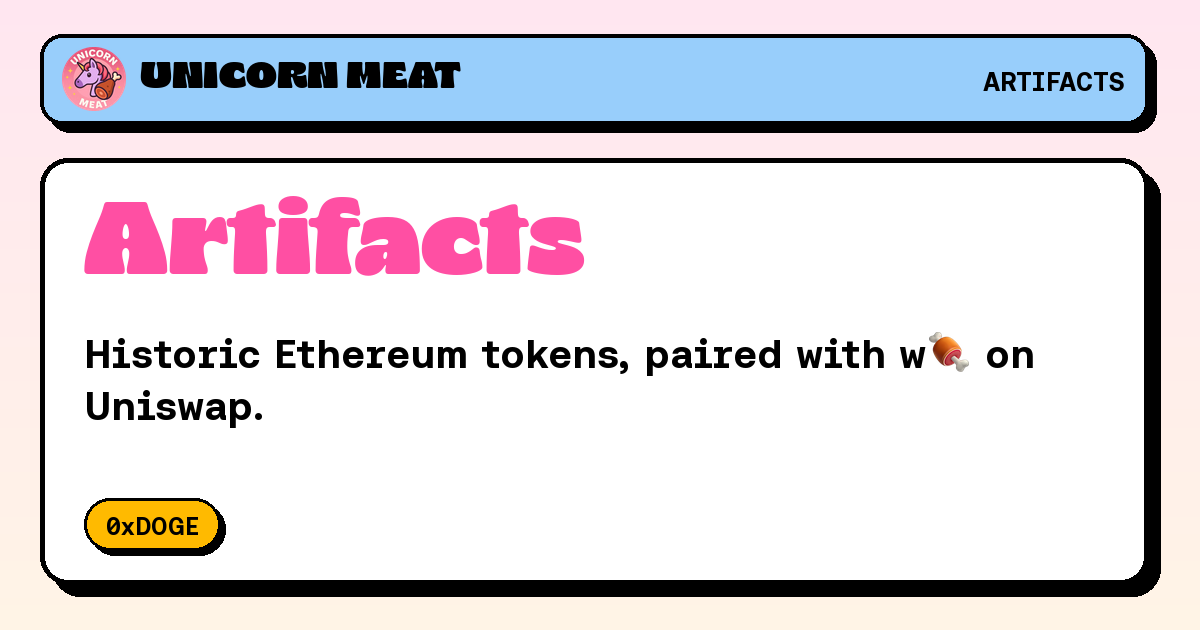
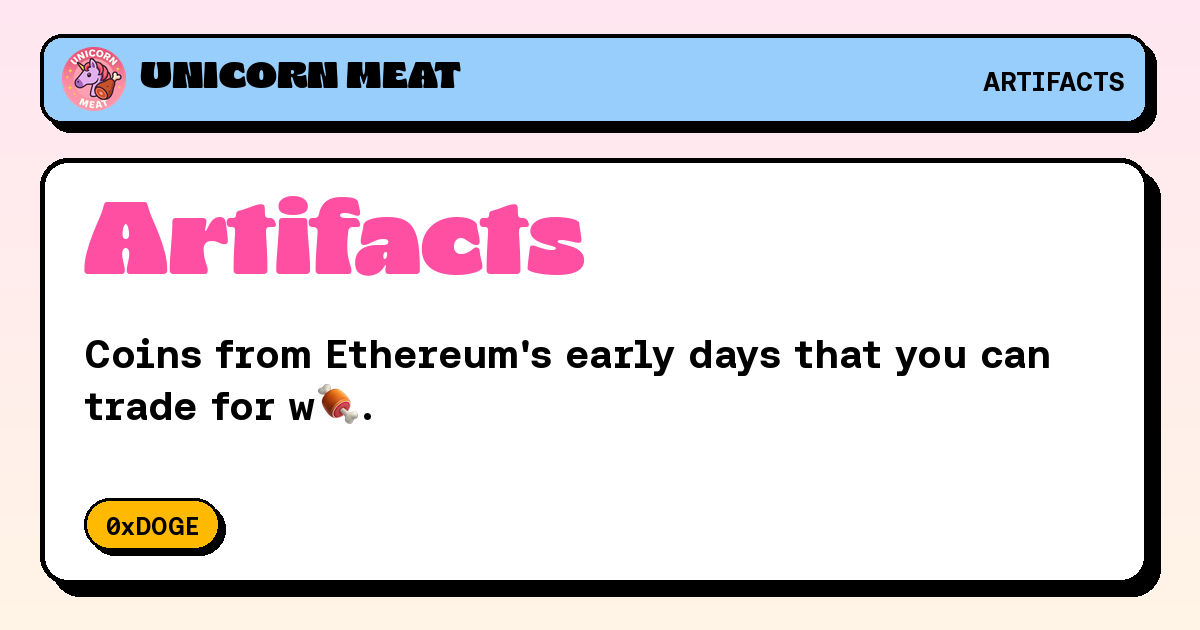
Artifacts: rewrite copy in plain language, no crypto jargon
Replace "bricked", "mints", "proof-of-work", "onchain", "paired",
"pool" and similar terms with everyday wording across the 0xDOGE page,
the index, meta tags and share images. Shrink the share-image one-liner
to fit two lines. Document the plain-language rule in the README and
the data file.

Changed region(s): [[0.0617, 0.5127, 0.8942, 0.6937]]

diff --git a/artifacts/0xdoge.html b/artifacts/0xdoge.html
@@ -9,15 +9,15 @@
     <link rel="icon" type="image/png" href="/assets/favicon.ico" />
     <link rel="canonical" href="https://unicornmeateth.com/artifacts/0xdoge" />
     <link rel="alternate" type="text/plain" href="https://unicornmeateth.com/llms.txt" title="LLM Information" />
-    <meta name="description" content="First 0xBitcoin clone. Bricked after 12 mints. Fixed supply forever. 0xDOGE Token (0xDOGE), deployed Feb 16, 2018. Paired with w🍖 on Uniswap.">
+    <meta name="description" content="The first copy of 0xBitcoin. A bug broke it for good after 12 payouts, so no new coins can ever be made. 0xDOGE Token (0xDOGE), launched Feb 16, 2018. Trade it for w🍖 on Uniswap.">
     <meta name="theme-color" content="#FFBA00">
     <meta property="og:locale" content="en_US">
     <meta property="og:type" content="article">
     <meta property="og:title" content="0xDOGE · Unicorn Meat Artifacts">
-    <meta property="og:description" content="First 0xBitcoin clone. Bricked after 12 mints. Fixed supply forever. 0xDOGE Token (0xDOGE), deployed Feb 16, 2018. Paired with w🍖 on Uniswap.">
+    <meta property="og:description" content="The first copy of 0xBitcoin. A bug broke it for good after 12 payouts, so no new coins can ever be made. 0xDOGE Token (0xDOGE), launched Feb 16, 2018. Trade it for w🍖 on Uniswap.">
     <meta property="og:url" content="https://unicornmeateth.com/artifacts/0xdoge">
     <meta property="og:site_name" content="Unicorn Meat 🍖">
-    <meta property="og:image" content="https://unicornmeateth.com/assets/images/artifacts/0xdoge-og.png?v=50ec7c9823">
+    <meta property="og:image" content="https://unicornmeateth.com/assets/images/artifacts/0xdoge-og.png?v=bae175a715">
     <meta property="og:image:width" content="1200">
     <meta property="og:image:height" content="630">
     <meta property="og:image:type" content="image/png">
@@ -26,8 +26,8 @@
     <meta name="twitter:site" content="@UnicornMeatETH">
     <meta name="twitter:creator" content="@UnicornMeatETH">
     <meta name="twitter:title" content="0xDOGE · Unicorn Meat Artifacts">
-    <meta name="twitter:description" content="First 0xBitcoin clone. Bricked after 12 mints. Fixed supply forever. 0xDOGE Token (0xDOGE), deployed Feb 16, 2018. Paired with w🍖 on Uniswap.">
-    <meta name="twitter:image" content="https://unicornmeateth.com/assets/images/artifacts/0xdoge-og.png?v=50ec7c9823">
+    <meta name="twitter:description" content="The first copy of 0xBitcoin. A bug broke it for good after 12 payouts, so no new coins can ever be made. 0xDOGE Token (0xDOGE), launched Feb 16, 2018. Trade it for w🍖 on Uniswap.">
+    <meta name="twitter:image" content="https://unicornmeateth.com/assets/images/artifacts/0xdoge-og.png?v=bae175a715">
     <script src="/assets/js/app-head-bs.js"></script>
     <link rel="stylesheet" href="/assets/js/uni-core/css/uni-core.min.css">
     <link rel="stylesheet" href="/assets/css/unicons.min.css">
@@ -42,7 +42,7 @@
   "@type": "WebPage",
   "url": "https://unicornmeateth.com/artifacts/0xdoge",
   "name": "0xDOGE Token (0xDOGE)",
-  "description": "First 0xBitcoin clone. Bricked after 12 mints. Fixed supply forever.",
+  "description": "The first copy of 0xBitcoin. A bug broke it for good after 12 payouts, so no new coins can ever be made.",
   "isPartOf": {
     "@id": "https://unicornmeateth.com/#website"
   },
@@ -155,10 +155,10 @@
             <section class="artifact-hero section panel overflow-hidden">
                 <div class="container artifact-hero-inner">
                     <div class="artifact-hero-copy mx-auto text-center vstack items-center gap-3">
-                        <a class="artifact-pill" href="/artifacts">🏺 Artifact #001 · Paired with w🍖</a>
+                        <a class="artifact-pill" href="/artifacts">🏺 Artifact #001 · Trade it for w🍖</a>
                         <h1 class="h2 sm:h1 xl:display-6 m-0 ls-0"><span class="artifact-title">0xDOGE</span></h1>
                         <p class="fs-6 fw-bold text-uppercase m-0 artifact-subtitle">0xDOGE Token</p>
-                        <p class="fs-5 xl:fs-4 text-dark m-0">First 0xBitcoin clone. Bricked after 12 mints. Fixed supply forever.</p>
+                        <p class="fs-5 xl:fs-4 text-dark m-0">The first copy of 0xBitcoin. A bug broke it for good after 12 payouts, so no new coins can ever be made.</p>
                         <div class="hstack flex-wrap justify-center gap-2 mt-2">
                             <a class="btn btn-md btn-secondary border border-2 border-black contrast-shadow-sm -rotate-1 hover:rotate-0 fw-bold" href="https://app.uniswap.org/swap?inputCurrency=ETH&amp;outputCurrency=0x0d8bB998900AbDB60D7414145e1c542C2CF4e7A9" target="_blank" rel="noopener">Trade on Uniswap ↗</a>
                             <a class="btn btn-md btn-white border border-2 border-black contrast-shadow-sm rotate-1 hover:rotate-0" href="https://www.ethereumhistory.com/contract/0x0d8bb998900abdb60d7414145e1c542c2cf4e7a9" target="_blank" rel="noopener">Ethereum History ↗</a>
@@ -175,19 +175,19 @@
                                 <div class="panel p-4 border border-2 border-black contrast-shadow-lg bg-white h-100 -rotate-1">
                                     <h2 class="h6 mb-2 text-uppercase">Supply</h2>
                                     <p class="fs-3 fw-bold mb-1">1,200,000</p>
-                                    <p class="fs-7 mb-0 text-muted">Fixed forever</p>
+                                    <p class="fs-7 mb-0 text-muted">No more can ever be made</p>
                                 </div>
                             </div>
                             <div class="col">
                                 <div class="panel p-4 border border-2 border-black contrast-shadow-lg bg-white h-100 rotate-1">
-                                    <h2 class="h6 mb-2 text-uppercase">Deployed</h2>
+                                    <h2 class="h6 mb-2 text-uppercase">Launched</h2>
                                     <p class="fs-3 fw-bold mb-1">Feb 16, 2018</p>
-                                    <p class="fs-7 mb-0 text-muted">Ethereum mainnet</p>
+                                    <p class="fs-7 mb-0 text-muted">On Ethereum</p>
                                 </div>
                             </div>
                             <div class="col">
                                 <div class="panel p-4 border border-2 border-black contrast-shadow-lg bg-white h-100 -rotate-1">
-                                    <h2 class="h6 mb-2 text-uppercase">Contract</h2>
+                                    <h2 class="h6 mb-2 text-uppercase">Contract address</h2>
                                     <p class="fs-7 fw-bold mb-2 artifact-mono">0x0d8bB998900AbDB60D7414145e1c542C2CF4e7A9</p>
                                     <p class="fs-7 mb-0"><a href="https://etherscan.io/token/0x0d8bB998900AbDB60D7414145e1c542C2CF4e7A9" target="_blank" rel="noopener">Etherscan ↗</a></p>
                                 </div>
@@ -204,24 +204,23 @@
                             <div class="col">
                                 <div class="panel p-4 sm:p-5 border border-2 border-black contrast-shadow-lg bg-white h-100 -rotate-1">
                                     <h2 class="h5 sm:h4 mb-3 text-uppercase">The story</h2>
-                                <p class="fs-6 mb-3">Deployed on February 16, 2018, just 10 days after 0xBitcoin, 0xDOGE was the first 0xBitcoin clone: a proof-of-work token mined by submitting solutions onchain.</p>
-                                <p class="fs-6 mb-3">A bug in the reward formula and a recursive era cap bricked the contract after 12 successful mints. No further mint can ever succeed.</p>
-                                <p class="fs-6 mb-3">1.2 million tokens exist, and no more can ever be created. 0xDOGE is the first proof-of-work token on Ethereum to permanently brick itself.</p>
+                                <p class="fs-6 mb-3">0xDOGE launched on February 16, 2018, just 10 days after 0xBitcoin. 0xBitcoin was a coin on Ethereum that people earned by having their computers solve math puzzles, the same way Bitcoin works. 0xDOGE was the first copy of it.</p>
+                                <p class="fs-6 mb-3">Its code had two mistakes: one in how rewards were calculated, and one in a built-in limit that tripped over itself. Together they made 0xDOGE stop working forever after only 12 payouts. Nobody can earn new coins from it, and nobody ever will.</p>
+                                <p class="fs-6 mb-3">That left exactly 1.2 million coins in existence, with no way to make more. 0xDOGE was the first coin of its kind on Ethereum to permanently break itself.</p>
                                     <p class="fs-7 mb-0"><a class="fw-bold" href="https://www.ethereumhistory.com/contract/0x0d8bb998900abdb60d7414145e1c542c2cf4e7a9" target="_blank" rel="noopener">Full history on Ethereum History ↗</a></p>
                                 </div>
                             </div>
                             <div class="col">
                                 <div class="panel p-4 sm:p-5 border border-2 border-black contrast-shadow-lg bg-white h-100 rotate-1">
-                                    <h2 class="h5 sm:h4 mb-3 text-uppercase">Onchain facts</h2>
+                                    <h2 class="h5 sm:h4 mb-3 text-uppercase">Quick facts</h2>
                                     <table class="artifact-facts">
                                         <tbody>
-                                    <tr><th scope="row">Contract</th><td>0x0d8bB998900AbDB60D7414145e1c542C2CF4e7A9</td></tr>
-                                    <tr><th scope="row">Symbol</th><td>0xDOGE</td></tr>
-                                    <tr><th scope="row">Deployed</th><td>Feb 16, 2018</td></tr>
-                                    <tr><th scope="row">Successful mints</th><td>12</td></tr>
-                                    <tr><th scope="row">Decimals</th><td>8</td></tr>
-                                    <tr><th scope="row">tokensMinted()</th><td>1,200,000.0012</td></tr>
-                                    <tr><th scope="row">totalSupply() reports</th><td>9,000,000,000,000 (unreachable cap)</td></tr>
+                                    <tr><th scope="row">Contract address</th><td>0x0d8bB998900AbDB60D7414145e1c542C2CF4e7A9</td></tr>
+                                    <tr><th scope="row">Ticker</th><td>0xDOGE</td></tr>
+                                    <tr><th scope="row">Launched</th><td>Feb 16, 2018</td></tr>
+                                    <tr><th scope="row">Times coins were paid out</th><td>12</td></tr>
+                                    <tr><th scope="row">Coins that exist</th><td>1,200,000</td></tr>
+                                    <tr><th scope="row">Supply shown on Etherscan</th><td>9 trillion, a limit it will never reach</td></tr>
                                         </tbody>
                                     </table>
                                 </div>
@@ -230,10 +229,10 @@
                         <div class="vstack items-center gap-3 mt-6 text-center">
                             <div class="hstack flex-wrap justify-center gap-2">
                                 <a class="btn btn-md btn-secondary border border-2 border-black contrast-shadow-sm fw-bold" href="https://app.uniswap.org/swap?inputCurrency=ETH&amp;outputCurrency=0x0d8bB998900AbDB60D7414145e1c542C2CF4e7A9" target="_blank" rel="noopener">Trade 0xDOGE on Uniswap ↗</a>
-                                <a class="btn btn-md btn-white border border-2 border-black contrast-shadow-sm" href="https://twitter.com/intent/tweet?text=0xDOGE%3A%20First%200xBitcoin%20clone.%20Bricked%20after%2012%20mints.%20Fixed%20supply%20forever.%20A%20w%F0%9F%8D%96%20Artifact.&amp;url=https%3A%2F%2Funicornmeateth.com%2Fartifacts%2F0xdoge" target="_blank" rel="noopener">Share on X</a>
+                                <a class="btn btn-md btn-white border border-2 border-black contrast-shadow-sm" href="https://twitter.com/intent/tweet?text=0xDOGE%3A%20The%20first%20copy%20of%200xBitcoin.%20A%20bug%20broke%20it%20for%20good%20after%2012%20payouts%2C%20so%20no%20new%20coins%20can%20ever%20be%20made.%20A%20w%F0%9F%8D%96%20Artifact.&amp;url=https%3A%2F%2Funicornmeateth.com%2Fartifacts%2F0xdoge" target="_blank" rel="noopener">Share on X</a>
                                 <a class="btn btn-md btn-white border border-2 border-black contrast-shadow-sm" href="/artifacts">All artifacts</a>
                             </div>
-                            <p class="fs-7 text-muted m-0 max-w-600px">Historic tokens can be thinly traded. Check the pool and the contract address before you swap. Not financial advice.</p>
+                            <p class="fs-7 text-muted m-0 max-w-600px">Old coins like this don't trade often, so the price can jump around. Double-check the contract address before you trade. Not financial advice.</p>
                         </div>
                     </div>
                 </div>

diff --git a/artifacts/index.html b/artifacts/index.html
@@ -5,29 +5,29 @@
 <head>
     <meta charset="UTF-8">
     <meta name="viewport" content="width=device-width, initial-scale=1.0">
-    <title>Artifacts · Historic Ethereum tokens paired with w🍖</title>
+    <title>Artifacts · Early Ethereum coins you can trade for w🍖</title>
     <link rel="icon" type="image/png" href="/assets/favicon.ico" />
     <link rel="canonical" href="https://unicornmeateth.com/artifacts" />
     <link rel="alternate" type="text/plain" href="https://unicornmeateth.com/llms.txt" title="LLM Information" />
-    <meta name="description" content="Historic Ethereum tokens paired with w🍖 on Uniswap: 0xDOGE.">
+    <meta name="description" content="Coins from Ethereum&#x27;s early days that you can trade for w🍖 on Uniswap: 0xDOGE.">
     <meta name="theme-color" content="#FFBA00">
     <meta property="og:locale" content="en_US">
     <meta property="og:type" content="website">
-    <meta property="og:title" content="Artifacts · Historic Ethereum tokens paired with w🍖">
-    <meta property="og:description" content="Historic Ethereum tokens paired with w🍖 on Uniswap: 0xDOGE.">
+    <meta property="og:title" content="Artifacts · Early Ethereum coins you can trade for w🍖">
+    <meta property="og:description" content="Coins from Ethereum&#x27;s early days that you can trade for w🍖 on Uniswap: 0xDOGE.">
     <meta property="og:url" content="https://unicornmeateth.com/artifacts">
     <meta property="og:site_name" content="Unicorn Meat 🍖">
-    <meta property="og:image" content="https://unicornmeateth.com/assets/images/artifacts/index-og.png?v=126c8500e4">
+    <meta property="og:image" content="https://unicornmeateth.com/assets/images/artifacts/index-og.png?v=016e63a37f">
     <meta property="og:image:width" content="1200">
     <meta property="og:image:height" content="630">
     <meta property="og:image:type" content="image/png">
-    <meta property="og:image:alt" content="Artifacts · Historic Ethereum tokens paired with w🍖">
+    <meta property="og:image:alt" content="Artifacts · Early Ethereum coins you can trade for w🍖">
     <meta name="twitter:card" content="summary_large_image">
     <meta name="twitter:site" content="@UnicornMeatETH">
     <meta name="twitter:creator" content="@UnicornMeatETH">
-    <meta name="twitter:title" content="Artifacts · Historic Ethereum tokens paired with w🍖">
-    <meta name="twitter:description" content="Historic Ethereum tokens paired with w🍖 on Uniswap: 0xDOGE.">
-    <meta name="twitter:image" content="https://unicornmeateth.com/assets/images/artifacts/index-og.png?v=126c8500e4">
+    <meta name="twitter:title" content="Artifacts · Early Ethereum coins you can trade for w🍖">
+    <meta name="twitter:description" content="Coins from Ethereum&#x27;s early days that you can trade for w🍖 on Uniswap: 0xDOGE.">
+    <meta name="twitter:image" content="https://unicornmeateth.com/assets/images/artifacts/index-og.png?v=016e63a37f">
     <script src="/assets/js/app-head-bs.js"></script>
     <link rel="stylesheet" href="/assets/js/uni-core/css/uni-core.min.css">
     <link rel="stylesheet" href="/assets/css/unicons.min.css">
@@ -152,10 +152,10 @@
             <section class="artifact-hero section panel overflow-hidden">
                 <div class="container artifact-hero-inner">
                     <div class="artifact-hero-copy mx-auto text-center vstack items-center gap-3">
-                        <span class="artifact-pill">🏺 1 paired token</span>
+                        <span class="artifact-pill">🏺 1 artifact</span>
                         <h1 class="h2 sm:h1 xl:display-6 m-0 ls-0"><span class="artifact-title">Artifacts</span></h1>
-                        <p class="fs-5 xl:fs-4 text-dark m-0">Historic Ethereum tokens, paired with w🍖 on Uniswap.</p>
-                        <p class="fs-6 text-dark m-0">Unicorn Meat has been on Ethereum since March 2016. Artifacts are other relics from the early chain that now trade against w🍖.</p>
+                        <p class="fs-5 xl:fs-4 text-dark m-0">Coins from Ethereum's early days, each with a story, that you can trade for w🍖 on Uniswap.</p>
+                        <p class="fs-6 text-dark m-0">Unicorn Meat has been on Ethereum since March 2016. Artifacts are other coins from those early years that you can now swap for w🍖.</p>
                     </div>
                 </div>
             </section>
@@ -169,9 +169,9 @@
                                     <span class="fs-7 fw-bold text-uppercase text-muted">Artifact #001 · Feb 16, 2018</span>
                                     <span class="h3 m-0 artifact-title">0xDOGE</span>
                                     <span class="fs-7 fw-bold text-uppercase">0xDOGE Token</span>
-                                    <span class="fs-6 text-dark">First 0xBitcoin clone. Bricked after 12 mints. Fixed supply forever.</span>
+                                    <span class="fs-6 text-dark">The first copy of 0xBitcoin. A bug broke it for good after 12 payouts, so no new coins can ever be made.</span>
                                     <span class="hstack justify-between items-center mt-auto pt-2">
-                                        <span class="artifact-chip" style="background:#ffba00">Supply 1,200,000</span>
+                                        <span class="artifact-chip" style="background:#ffba00">1,200,000 coins</span>
                                         <span class="fw-bold">View →</span>
                                     </span>
                                 </a>

diff --git a/scripts/build-artifacts.py b/scripts/build-artifacts.py
@@ -203,16 +203,21 @@ def build_og(a):
     d.text((x, y), a["name"], font=font(FONT_BOLD, 30), fill="#3a3a3a")
     y += 58
 
-    body = font(FONT_BOLD, 40)
-    for line in wrap(d, a["oneLiner"], body, max_w)[:3]:
+    # shrink the one-liner until it fits in two lines above the pills
+    for size in range(40, 27, -2):
+        body = font(FONT_BOLD, size)
+        lines = wrap(d, a["oneLiner"], body, max_w)
+        if len(lines) <= 2:
+            break
+    for line in lines[:3]:
         d.text((x, y), line, font=body, fill="#000")
-        y += 52
+        y += int(size * 1.3)
 
     pf = font(FONT_BOLD, 24)
     py = OG_H - 46 - 86
-    b = pill(img, (x, py), f"Supply {a['supply']['display']}", a["accent"], pf)
-    b = pill(img, (b[2] + 22, py), f"Deployed {a['deployedHuman']}", "#ffffff", pf)
-    pill(img, (b[2] + 22, py), "Paired with w🍖 on Uniswap", "#ffe6f0", pf)
+    b = pill(img, (x, py), f"{a['supply']['display']} coins", a["accent"], pf)
+    b = pill(img, (b[2] + 22, py), f"Launched {a['deployedHuman']}", "#ffffff", pf)
+    pill(img, (b[2] + 22, py), "Trade it for w🍖 on Uniswap", "#ffe6f0", pf)
     return img.convert("RGB")
 
 
@@ -224,7 +229,7 @@ def build_index_og(items):
     d.text((x, 190), "Artifacts", font=font(FONT_DISPLAY, 112), fill="#ff4fa3")
     body = font(FONT_BOLD, 40)
     y = 330
-    for line in wrap(d, "Historic Ethereum tokens, paired with w🍖 on Uniswap.", body, OG_W - 200):
+    for line in wrap(d, "Coins from Ethereum's early days that you can trade for w🍖.", body, OG_W - 200):
         draw_text(img, (x, y), line, body)
         y += 52
     pf = font(FONT_BOLD, 24)
@@ -419,14 +424,14 @@ def artifact_body(a):
     story = "\n".join(f'                                <p class="fs-6 mb-3">{e(p)}</p>' for p in a["story"])
     facts = "\n".join(
         f'                                    <tr><th scope="row">{e(k)}</th><td>{e(v)}</td></tr>'
-        for k, v in [("Contract", a["address"]), ("Symbol", a["symbol"]),
-                     ("Deployed", a["deployedHuman"]), *a["facts"]])
+        for k, v in [("Contract address", a["address"]), ("Ticker", a["symbol"]),
+                     ("Launched", a["deployedHuman"]), *a["facts"]])
     share_text = quote(f"{a['symbol']}: {a['oneLiner']} A w🍖 Artifact.")
     share = f"https://twitter.com/intent/tweet?text={share_text}&url={quote(a['url'], safe='')}"
     return f"""            <section class="artifact-hero section panel overflow-hidden">
                 <div class="container artifact-hero-inner">
                     <div class="artifact-hero-copy mx-auto text-center vstack items-center gap-3">
-                        <a class="artifact-pill" href="/artifacts">🏺 Artifact #{a['number']:03d} · Paired with w🍖</a>
+                        <a class="artifact-pill" href="/artifacts">🏺 Artifact #{a['number']:03d} · Trade it for w🍖</a>
                         <h1 class="h2 sm:h1 xl:display-6 m-0 ls-0"><span class="artifact-title">{e(a['symbol'])}</span></h1>
                         <p class="fs-6 fw-bold text-uppercase m-0 artifact-subtitle">{e(a['name'])}</p>
                         <p class="fs-5 xl:fs-4 text-dark m-0">{e(a['oneLiner'])}</p>
@@ -451,14 +456,14 @@ def artifact_body(a):
                             </div>
                             <div class="col">
                                 <div class="panel p-4 border border-2 border-black contrast-shadow-lg bg-white h-100 rotate-1">
-                                    <h2 class="h6 mb-2 text-uppercase">Deployed</h2>
+                                    <h2 class="h6 mb-2 text-uppercase">Launched</h2>
                                     <p class="fs-3 fw-bold mb-1">{e(a['deployedHuman'])}</p>
-                                    <p class="fs-7 mb-0 text-muted">Ethereum mainnet</p>
+                                    <p class="fs-7 mb-0 text-muted">On Ethereum</p>
                                 </div>
                             </div>
                             <div class="col">
                                 <div class="panel p-4 border border-2 border-black contrast-shadow-lg bg-white h-100 -rotate-1">
-                                    <h2 class="h6 mb-2 text-uppercase">Contract</h2>
+                                    <h2 class="h6 mb-2 text-uppercase">Contract address</h2>
                                     <p class="fs-7 fw-bold mb-2 artifact-mono">{e(a['address'])}</p>
                                     <p class="fs-7 mb-0"><a href="{e(a['etherscanUrl'])}" target="_blank" rel="noopener">Etherscan ↗</a></p>
                                 </div>
@@ -481,7 +486,7 @@ def artifact_body(a):
                             </div>
                             <div class="col">
                                 <div class="panel p-4 sm:p-5 border border-2 border-black contrast-shadow-lg bg-white h-100 rotate-1">
-                                    <h2 class="h5 sm:h4 mb-3 text-uppercase">Onchain facts</h2>
+                                    <h2 class="h5 sm:h4 mb-3 text-uppercase">Quick facts</h2>
                                     <table class="artifact-facts">
                                         <tbody>
 {facts}
@@ -496,7 +501,7 @@ def artifact_body(a):
                                 <a class="btn btn-md btn-white border border-2 border-black contrast-shadow-sm" href="{e(share)}" target="_blank" rel="noopener">Share on X</a>
                                 <a class="btn btn-md btn-white border border-2 border-black contrast-shadow-sm" href="/artifacts">All artifacts</a>
                             </div>
-                            <p class="fs-7 text-muted m-0 max-w-600px">Historic tokens can be thinly traded. Check the pool and the contract address before you swap. Not financial advice.</p>
+                            <p class="fs-7 text-muted m-0 max-w-600px">Old coins like this don't trade often, so the price can jump around. Double-check the contract address before you trade. Not financial advice.</p>
                         </div>
                     </div>
                 </div>
@@ -514,7 +519,7 @@ def index_body(items):
                                     <span class="fs-7 fw-bold text-uppercase">{e(a['name'])}</span>
                                     <span class="fs-6 text-dark">{e(a['oneLiner'])}</span>
                                     <span class="hstack justify-between items-center mt-auto pt-2">
-                                        <span class="artifact-chip" style="background:{e(a['accent'])}">Supply {e(a['supply']['display'])}</span>
+                                        <span class="artifact-chip" style="background:{e(a['accent'])}">{e(a['supply']['display'])} coins</span>
                                         <span class="fw-bold">View →</span>
                                     </span>
                                 </a>
@@ -522,10 +527,10 @@ def index_body(items):
     return f"""            <section class="artifact-hero section panel overflow-hidden">
                 <div class="container artifact-hero-inner">
                     <div class="artifact-hero-copy mx-auto text-center vstack items-center gap-3">
-                        <span class="artifact-pill">🏺 {len(items)} paired {"token" if len(items) == 1 else "tokens"}</span>
+                        <span class="artifact-pill">🏺 {len(items)} {"artifact" if len(items) == 1 else "artifacts"}</span>
                         <h1 class="h2 sm:h1 xl:display-6 m-0 ls-0"><span class="artifact-title">Artifacts</span></h1>
-                        <p class="fs-5 xl:fs-4 text-dark m-0">Historic Ethereum tokens, paired with w🍖 on Uniswap.</p>
-                        <p class="fs-6 text-dark m-0">Unicorn Meat has been on Ethereum since March 2016. Artifacts are other relics from the early chain that now trade against w🍖.</p>
+                        <p class="fs-5 xl:fs-4 text-dark m-0">Coins from Ethereum's early days, each with a story, that you can trade for w🍖 on Uniswap.</p>
+                        <p class="fs-6 text-dark m-0">Unicorn Meat has been on Ethereum since March 2016. Artifacts are other coins from those early years that you can now swap for w🍖.</p>
                     </div>
                 </div>
             </section>
@@ -577,7 +582,7 @@ def main():
         title = f"{a['symbol']}: {a['oneLiner']}"
         if len(title) > 70:
             title = f"{a['symbol']} · Unicorn Meat Artifacts"
-        description = f"{a['oneLiner']} {a['name']} ({a['symbol']}), deployed {a['deployedHuman']}. Paired with w🍖 on Uniswap."
+        description = f"{a['oneLiner']} {a['name']} ({a['symbol']}), launched {a['deployedHuman']}. Trade it for w🍖 on Uniswap."
         jsonld = {
             "@context": "https://schema.org",
             "@type": "WebPage",
@@ -608,8 +613,8 @@ def main():
         "hasPart": [{"@type": "WebPage", "url": a["url"], "name": a["name"]} for a in items],
     }
     (OUT_PAGES / "index.html").write_text(page(
-        title="Artifacts · Historic Ethereum tokens paired with w🍖",
-        description="Historic Ethereum tokens paired with w🍖 on Uniswap: "
+        title="Artifacts · Early Ethereum coins you can trade for w🍖",
+        description="Coins from Ethereum's early days that you can trade for w🍖 on Uniswap: "
                     + ", ".join(a["symbol"] for a in items) + ".",
         canonical=f"{SITE}/artifacts",
         og_image=f"{SITE}/assets/images/artifacts/index-og.png?v={v}",

diff --git a/README.md b/README.md
@@ -161,3 +161,5 @@ To add or edit an artifact:
 3. Commit the regenerated `artifacts/*.html`, `assets/images/artifacts/*.png` and `sitemap.xml`.
 
 Don't hand-edit the generated HTML; change the template in the script instead.
+
+Write all artifact copy for someone who has never used crypto. Avoid jargon like "bricked", "mint", "proof-of-work", "onchain" or "pool". If a technical detail matters, explain it in everyday words.
